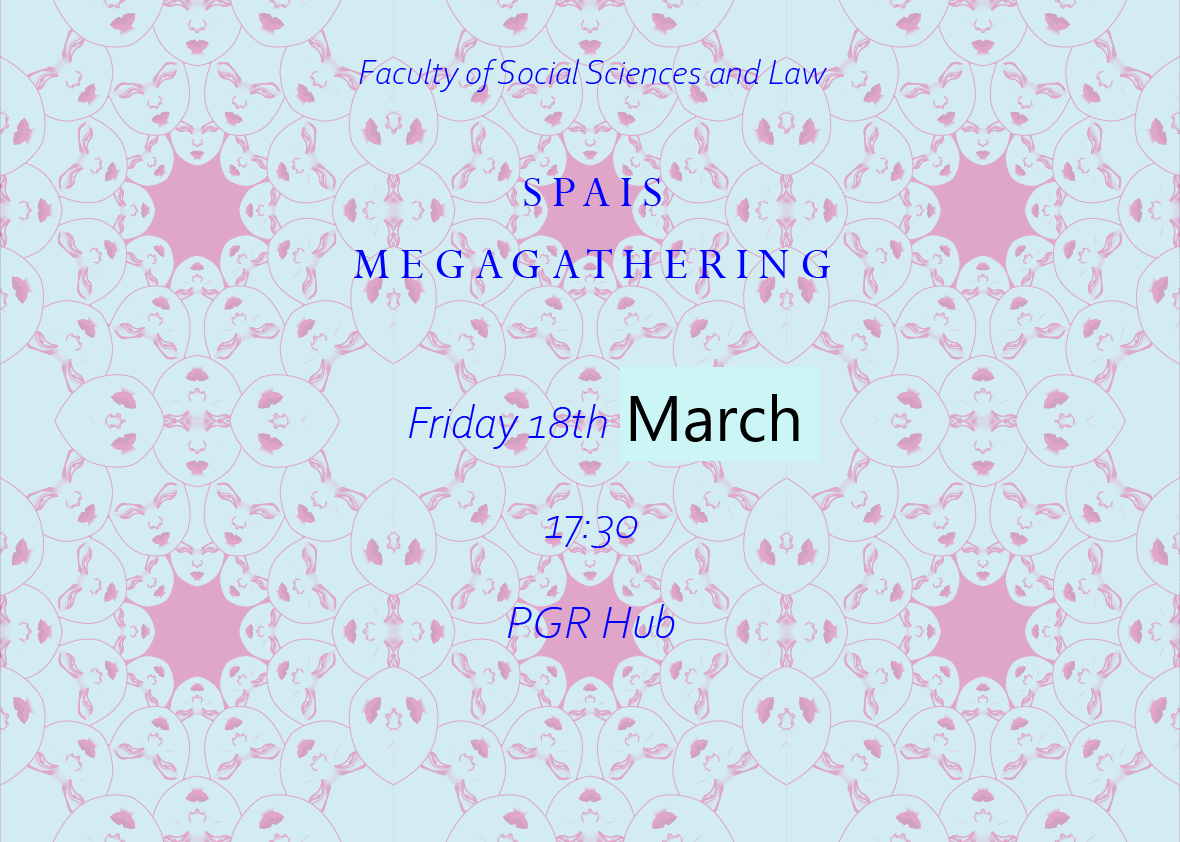
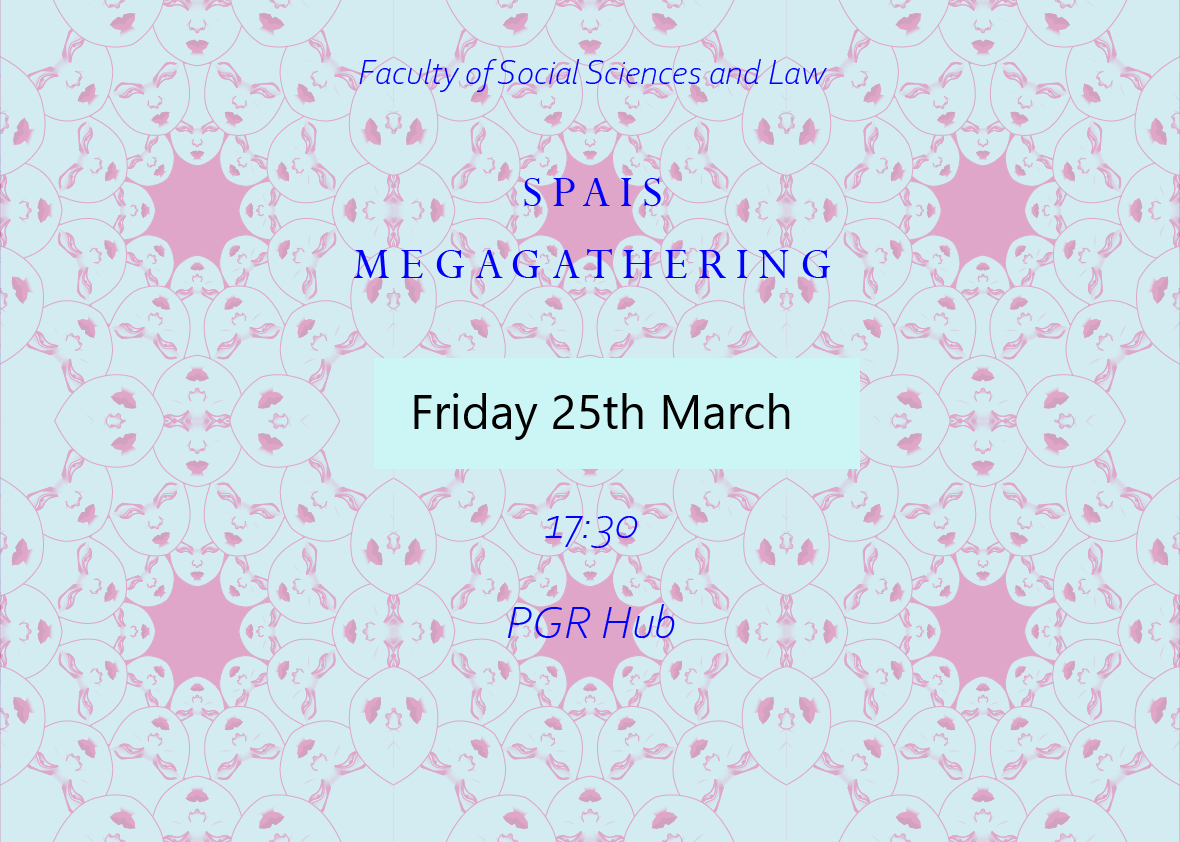
update events

Changed region(s): [[0.3356, 0.4323, 0.7017, 0.5558], [0.7017, 0.5249, 0.7322, 0.5558], [0.7017, 0.4323, 0.7322, 0.4632]]

diff --git a/content/event/2022-02-11-SPAIS/index.md b/content/event/2022-02-11-SPAIS/index.md
@@ -25,8 +25,8 @@ address:
   country: 
 
 #   End time can optionally be hidden by prefixing the line with `#`.
-date: "2022-03-18T17:30:00Z"
-date_end: "2022-03-18T00:00:00Z"
+date: "2022-03-25T17:30:00Z"
+date_end: "2022-03-25T00:00:00Z"
 all_day: false
 
 publishDate: "2022-02-16T00:00:00Z"
@@ -49,6 +49,6 @@ image:
  
 ---
 
-On Friday 25th February, PGRs from the School of Sociology, Politics, and International Studies (SPAIS) are holding a social event at the PGR hub. We would very much like to meet people from other departments, so would be great to see some geography PGRs there. There will be pizza and drinks!
+On Friday 25thMarch, PGRs from the School of Sociology, Politics, and International Studies (SPAIS) are holding a social event at the PGR hub. We would very much like to meet people from other departments, so would be great to see some geography PGRs there. There will be pizza and drinks!
 
 Please e-mail me (dm18378@bristol.ac.uk) if you have dietary requirements! Would also appreciate it if you could do a lateral flow test beforehand! 

diff --git a/content/event/2022-03-07-Johnston_lecture/index.md b/content/event/2022-03-07-Johnston_lecture/index.md
@@ -23,8 +23,8 @@ Please use [this Eventbrite link to register](https://www.eventbrite.co.uk/e/joh
 
 # Talk start and end times.
 #   End time can optionally be hidden by prefixing the line with `#`.
-date: "2022-03-30T17:00:00Z"
-date_end: "2022-03-30T20:00:00Z"
+date: "2022-05-18T17:00:00Z"
+date_end: "2022-05-18T20:00:00Z"
 all_day: false
 
 # Schedule page publish date (NOT talk date).
